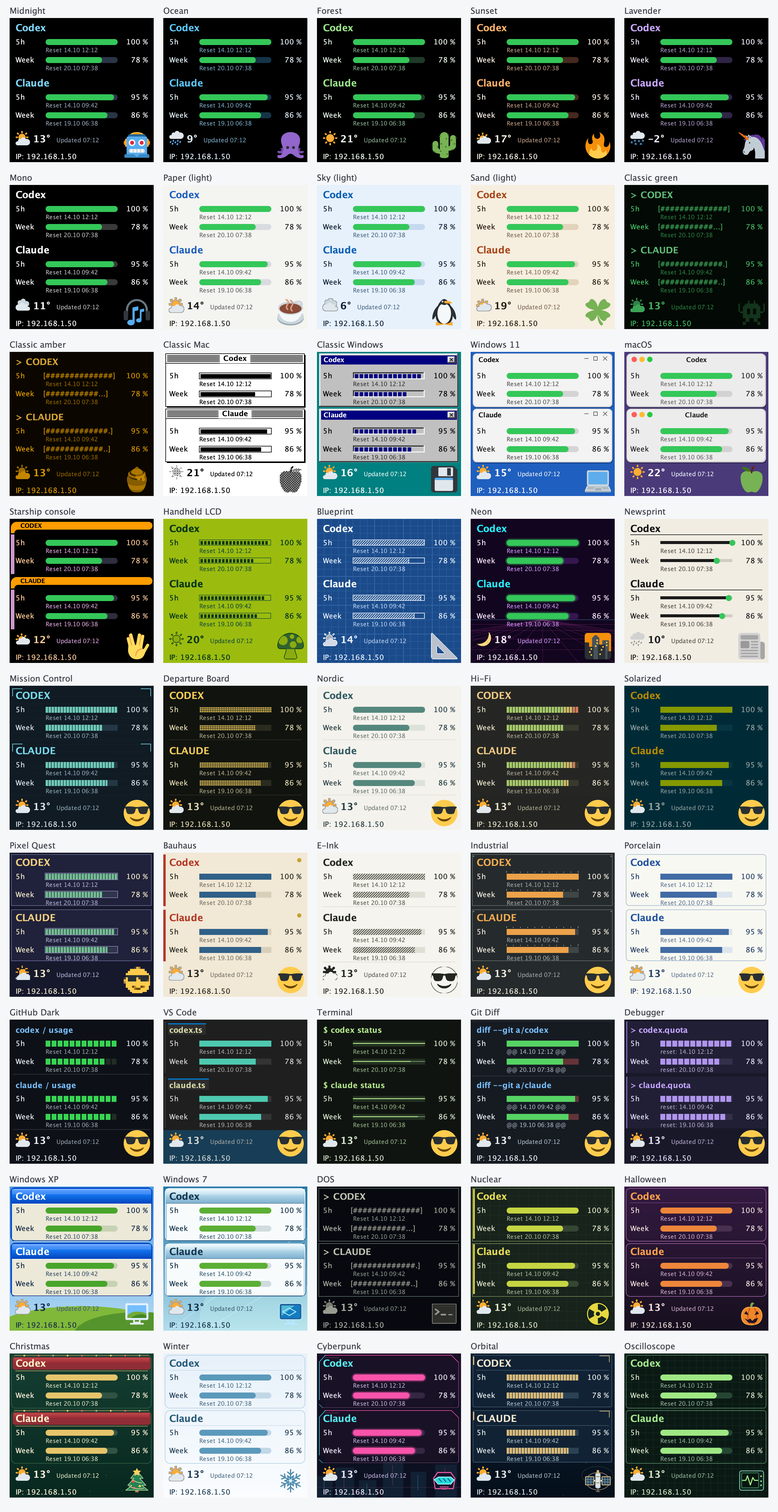
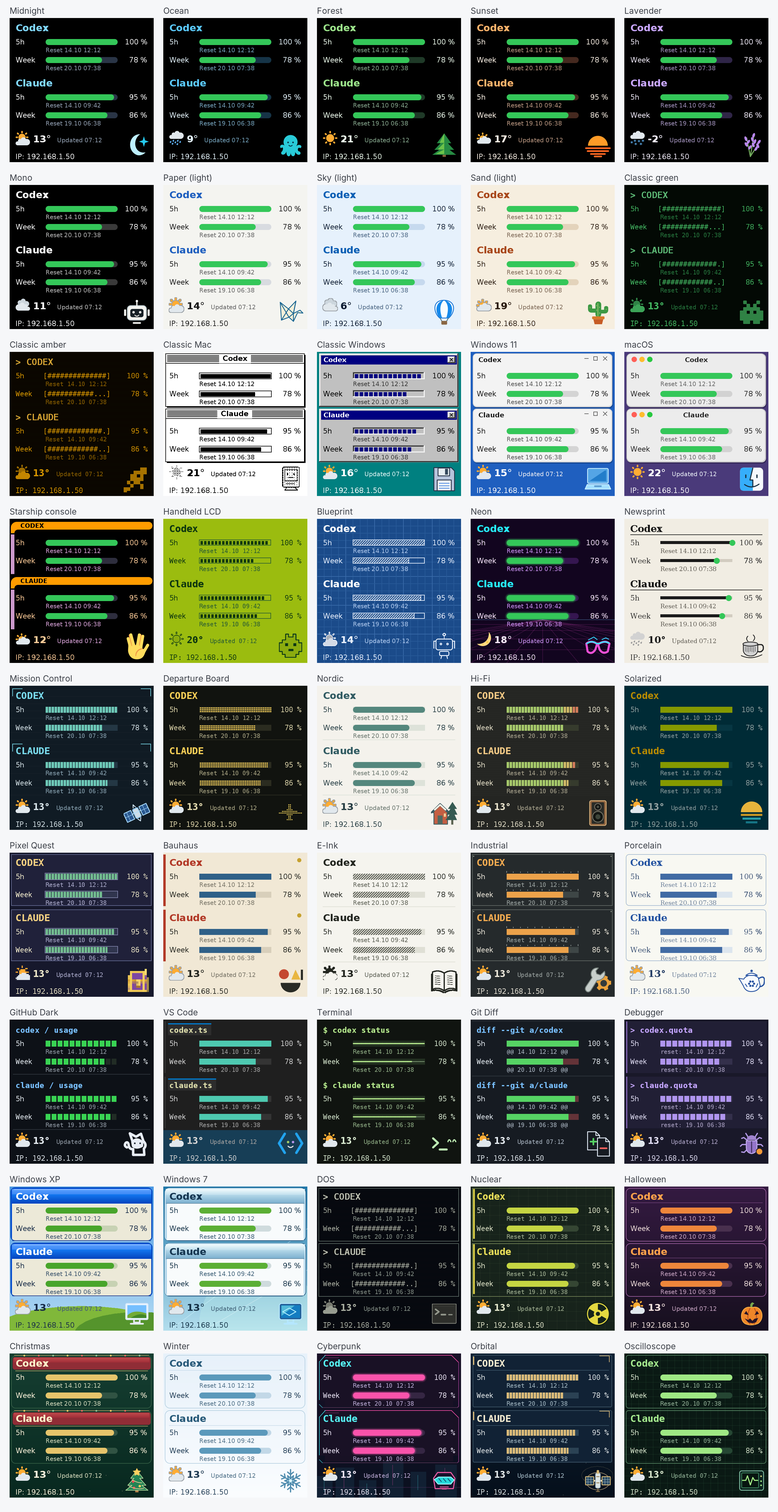
Release 0.5.0 (#77)
* Release 0.5.0: changelog, manual, READMEs, themes picture with default icons

* Docs: firmware 0.5.0 wording, metrics note in client README, status page reload text

diff --git a/vibedock-server/src/test/java/org/frifra/vibedock/server/ThemesImageTest.java b/vibedock-server/src/test/java/org/frifra/vibedock/server/ThemesImageTest.java
@@ -11,40 +11,40 @@ import java.util.*;
 import java.util.List;
 
 /**
- * Draws every colour scheme with example data, with the server's renderer at twice the size (sharp on high-resolution
+ * Draws every colour scheme with example data and its default theme icon, with the server's renderer at twice the size (sharp on high-resolution
  * screens), into target/themes.png. With the Twemoji graphics versioned in the repository; VIBEDOCK_TWEMOJI names
  * another SVG folder. The picture of the README and the manual (docs/manual/themes.png; outside images/, which
  * scripts/docs.sh makes again) is made with
  * {@code VIBEDOCK_THEMES_IMAGE=../docs/manual/themes.png mvn test -Dtest=ThemesImageTest} (from vibedock-server).
  */
 class ThemesImageTest {
-    record Example(Scheme scheme,String mood,String weather,String temperature) {}
+    record Example(Scheme scheme,String weather,String temperature) {}
     static final List<Example> EXAMPLES=List.of(
-            new Example(Scheme.MIDNIGHT,"🤖","⛅","13°"),new Example(Scheme.OCEAN,"🐙","🌧","9°"),new Example(Scheme.FOREST,"🌵","☀","21°"),
-            new Example(Scheme.SUNSET,"🔥","🌥","17°"),new Example(Scheme.LAVENDER,"🦄","🌨","-2°"),new Example(Scheme.MONO,"🎧","☁","11°"),
-            new Example(Scheme.PAPER,"☕","⛅","14°"),new Example(Scheme.SKY,"🐧","☁","6°"),new Example(Scheme.SAND,"🍀","🌥","19°"),
-            new Example(Scheme.TERMINAL_GREEN,"👾","⛅","13°"),new Example(Scheme.TERMINAL_AMBER,"🍯","⛅","13°"),new Example(Scheme.CLASSIC_MAC,"🍎","☀","21°"),
-            new Example(Scheme.CLASSIC_WINDOWS,"💾","⛅","16°"),new Example(Scheme.WINDOWS_11,"💻","⛅","15°"),new Example(Scheme.MACOS,"🍏","☀","22°"),
-            new Example(Scheme.STARSHIP,"🖖","🌥","12°"),new Example(Scheme.HANDHELD,"🍄","☀","20°"),new Example(Scheme.BLUEPRINT,"📐","⛅","14°"),
-            new Example(Scheme.NEON,"🌆","🌙","18°"),new Example(Scheme.NEWSPRINT,"📰","🌧","10°"),
-            new Example(Scheme.MISSION_CONTROL,"😎","⛅","13°"),new Example(Scheme.DEPARTURE_BOARD,"😎","⛅","13°"),
-            new Example(Scheme.NORDIC,"😎","⛅","13°"),new Example(Scheme.HI_FI,"😎","⛅","13°"),
-            new Example(Scheme.SOLARIZED,"😎","⛅","13°"),new Example(Scheme.PIXEL_QUEST,"😎","⛅","13°"),
-            new Example(Scheme.BAUHAUS,"😎","⛅","13°"),new Example(Scheme.E_INK,"😎","⛅","13°"),
-            new Example(Scheme.INDUSTRIAL,"😎","⛅","13°"),new Example(Scheme.PORCELAIN,"😎","⛅","13°"),
-            new Example(Scheme.GITHUB_DARK,"😎","⛅","13°"),new Example(Scheme.VS_CODE,"😎","⛅","13°"),
-            new Example(Scheme.TERMINAL,"😎","⛅","13°"),new Example(Scheme.GIT_DIFF,"😎","⛅","13°"),
-            new Example(Scheme.DEBUGGER,"😎","⛅","13°"),
-            new Example(Scheme.WINDOWS_XP,null,"⛅","13°"),
-            new Example(Scheme.WINDOWS_7,null,"⛅","13°"),
-            new Example(Scheme.DOS,null,"⛅","13°"),
-            new Example(Scheme.NUCLEAR,null,"⛅","13°"),
-            new Example(Scheme.HALLOWEEN,null,"⛅","13°"),
-            new Example(Scheme.CHRISTMAS,null,"⛅","13°"),
-            new Example(Scheme.WINTER,null,"⛅","13°"),
-            new Example(Scheme.CYBERPUNK,null,"⛅","13°"),
-            new Example(Scheme.ORBITAL,null,"⛅","13°"),
-            new Example(Scheme.OSCILLOSCOPE,null,"⛅","13°"));
+            new Example(Scheme.MIDNIGHT,"⛅","13°"),new Example(Scheme.OCEAN,"🌧","9°"),new Example(Scheme.FOREST,"☀","21°"),
+            new Example(Scheme.SUNSET,"🌥","17°"),new Example(Scheme.LAVENDER,"🌨","-2°"),new Example(Scheme.MONO,"☁","11°"),
+            new Example(Scheme.PAPER,"⛅","14°"),new Example(Scheme.SKY,"☁","6°"),new Example(Scheme.SAND,"🌥","19°"),
+            new Example(Scheme.TERMINAL_GREEN,"⛅","13°"),new Example(Scheme.TERMINAL_AMBER,"⛅","13°"),new Example(Scheme.CLASSIC_MAC,"☀","21°"),
+            new Example(Scheme.CLASSIC_WINDOWS,"⛅","16°"),new Example(Scheme.WINDOWS_11,"⛅","15°"),new Example(Scheme.MACOS,"☀","22°"),
+            new Example(Scheme.STARSHIP,"🌥","12°"),new Example(Scheme.HANDHELD,"☀","20°"),new Example(Scheme.BLUEPRINT,"⛅","14°"),
+            new Example(Scheme.NEON,"🌙","18°"),new Example(Scheme.NEWSPRINT,"🌧","10°"),
+            new Example(Scheme.MISSION_CONTROL,"⛅","13°"),new Example(Scheme.DEPARTURE_BOARD,"⛅","13°"),
+            new Example(Scheme.NORDIC,"⛅","13°"),new Example(Scheme.HI_FI,"⛅","13°"),
+            new Example(Scheme.SOLARIZED,"⛅","13°"),new Example(Scheme.PIXEL_QUEST,"⛅","13°"),
+            new Example(Scheme.BAUHAUS,"⛅","13°"),new Example(Scheme.E_INK,"⛅","13°"),
+            new Example(Scheme.INDUSTRIAL,"⛅","13°"),new Example(Scheme.PORCELAIN,"⛅","13°"),
+            new Example(Scheme.GITHUB_DARK,"⛅","13°"),new Example(Scheme.VS_CODE,"⛅","13°"),
+            new Example(Scheme.TERMINAL,"⛅","13°"),new Example(Scheme.GIT_DIFF,"⛅","13°"),
+            new Example(Scheme.DEBUGGER,"⛅","13°"),
+            new Example(Scheme.WINDOWS_XP,"⛅","13°"),
+            new Example(Scheme.WINDOWS_7,"⛅","13°"),
+            new Example(Scheme.DOS,"⛅","13°"),
+            new Example(Scheme.NUCLEAR,"⛅","13°"),
+            new Example(Scheme.HALLOWEEN,"⛅","13°"),
+            new Example(Scheme.CHRISTMAS,"⛅","13°"),
+            new Example(Scheme.WINTER,"⛅","13°"),
+            new Example(Scheme.CYBERPUNK,"⛅","13°"),
+            new Example(Scheme.ORBITAL,"⛅","13°"),
+            new Example(Scheme.OSCILLOSCOPE,"⛅","13°"));
 
     @Test void drawsEveryScheme() throws Exception {
         var emoji=Twemoji.locate(System.getenv("VIBEDOCK_TWEMOJI"));
@@ -61,7 +61,7 @@ class ThemesImageTest {
         g.setFont(new Font(Font.SANS_SERIF,Font.PLAIN,14*k));
         for(int i=0;i<EXAMPLES.size();i++){
             var e=EXAMPLES.get(i);int x=gap+(i%columns)*cell,y=gap/2+(i/columns)*(label+240*k+gap);
-            var look=new StatusImage.Look(e.mood()==null?ThemeIcons.image(new Design.Icon("theme-default",null,null),e.scheme(),Twemoji.SIZE*k).orElseThrow():required(twemoji,e.mood(),Twemoji.SIZE*k),e.scheme(),required(twemoji,e.weather(),24*k),e.temperature(),Layout.DEFAULT);
+            var look=new StatusImage.Look(ThemeIcons.image(new Design.Icon("theme-default",null,null),e.scheme(),Twemoji.SIZE*k).orElseThrow(),e.scheme(),required(twemoji,e.weather(),24*k),e.temperature(),Layout.DEFAULT);
             var image=ImageIO.read(new ByteArrayInputStream(renderer.render(snapshot,"192.168.1.50",look,DisplayType.M1,k).png()));
             g.setColor(new Color(0x3c4048));g.drawString(e.scheme().label,x,y+15*k);
             g.drawImage(image,x,y+label,null);

diff --git a/vibedock-server/README.md b/vibedock-server/README.md
@@ -237,10 +237,10 @@ Devices are invited by the server and then pull their image; see [CLIENT-PROTOCO
 
 1. Connect the device to Wi-Fi through its local setup portal. An unpaired device shows its IP address (bottom line) and a 6-digit pairing code.
 2. In administration under **Devices**, click `Pair device`, enter IP and code and confirm. The server sends its addresses, a new device key and the poll interval to the device. **HTTP pairing is unencrypted** and remains enabled for trusted home networks; the form displays a warning. A network attacker can capture the device key or replace TLS/OTA trust keys. Pairing over USB is the alternative without reinstalling firmware: **USB** in the same dialog (remembered per browser) or **Devices → Firmware → Only pair**, one form in two places (fragment `usbPairing`, `usb-pairing.js`).
-3. The device pulls `GET /api/v1/clients/{identifier}/image` with its key. Unchanged images are answered with **304**. Every answer says when the picture can change next (`X-VibeDock-Next-Pull`: after the next poll of the sources the display shows; *pending* while one is being asked), and current firmware pulls then, at most every 10 minutes when the server can ask it to pull, every 2 minutes otherwise (`CLIENT-PROTOCOL.md` 3h). All sources are polled together on the full minute, so several providers do not make a display pull more often. The *fallback poll interval* under *Settings* (default 30 s) applies to older firmware, after failed pulls and as grace before *Updates missing*. After a design is saved, the server asks the affected devices to pull right away (`POST /pull` on the device); after a restart it asks devices with an established callback address, once the first usage readings are in. Device-reported IPs may change the callback destination only inside the network fixed at HTTP pairing, using the entered IP and the device-reported subnet mask. Older devices without a mask use the original IPv4 pairing IP's `/24` (first three octets); IPv6 stays at the original address. Clients on 0.1.0 remain supported without the mask header. If no actual mask has been saved, the first authenticated pull from recognized firmware newer than 0.1.0 with a valid mask may replace the `/24` fallback once, anchored to the original IP. Once learned, later reports and firmware updates cannot widen or move that network. Invalid masks keep the exact original IP and show a warning. USB-paired devices enable immediate callbacks after their first authenticated image pull: the reported device IP (or socket peer if the header is absent/invalid) fixes the origin, and subsequent IPv4 address changes must stay in its `/24` until the actual mask is learned once as above. This survives server restarts; existing USB registrations without an origin learn it on their next authenticated pull. Web displays never receive callbacks.
+3. The device pulls `GET /api/v1/clients/{identifier}/image` with its key. Unchanged images are answered with **304**. Every answer says when the picture can change next (`X-VibeDock-Next-Pull`: after the next poll of the sources the display shows; *pending* while one is being asked), and current firmware pulls then, at most every 10 minutes when the server can ask it to pull, every 2 minutes otherwise (`CLIENT-PROTOCOL.md` 3h). All sources are polled together on the full minute, so several providers do not make a display pull more often. With several displays the announced time gets up to 10 s on top, a fixed step of its own for every display and round, so they do not pull in the same second (never beyond the limit above). The *fallback poll interval* under *Settings* (default 30 s) applies to older firmware, after failed pulls and as grace before *Updates missing*. After a design is saved, the server asks the affected devices to pull right away (`POST /pull` on the device); after a restart it asks devices with an established callback address, once the first usage readings are in. Device-reported IPs may change the callback destination only inside the network fixed at HTTP pairing, using the entered IP and the device-reported subnet mask. Older devices without a mask use the original IPv4 pairing IP's `/24` (first three octets); IPv6 stays at the original address. Clients on 0.1.0 remain supported without the mask header. If no actual mask has been saved, the first authenticated pull from recognized firmware newer than 0.1.0 with a valid mask may replace the `/24` fallback once, anchored to the original IP. Once learned, later reports and firmware updates cannot widen or move that network. Invalid masks keep the exact original IP and show a warning. USB-paired devices enable immediate callbacks after their first authenticated image pull: the reported device IP (or socket peer if the header is absent/invalid) fixes the origin, and subsequent IPv4 address changes must stay in its `/24` until the actual mask is learned once as above. This survives server restarts; existing USB registrations without an origin learn it on their next authenticated pull. Web displays never receive callbacks.
 4. Under **Settings** set the **internal** address (LAN, default: the host used to open the administration UI with port 10002) and an optional **external** address, e.g. a public host name behind a reverse proxy. `INTERNAL_URL` and `EXTERNAL_URL` in `.env` provide defaults. Devices try the address that answered last, then the other one; after a restart they try the first one (internal) once more.
 5. **Boards:** besides the VibeTV M1 (ESP8266), the firmware is built for ESP32 boards with a display: Cheap Yellow Display (ESP32-2432S028R), LilyGO T-Display, LilyGO T-Display-S3, Waveshare ESP32-S3-LCD-1.69, Waveshare ESP32-S3-Touch-LCD-1.47, Waveshare ESP32-S3-Touch-LCD-1.54, Waveshare ESP32-C6-Touch-LCD-1.69 and an ESP32-C3 with a 240×240 ST7789 (table in [CLIENT-PROTOCOL.md](CLIENT-PROTOCOL.md#boards)). Every device has a board; it decides which build is installed over USB or Wi-Fi and sets the device's default display type. Current firmware reports its board with every pull and over USB; for older firmware choose it when pairing. The card shows it next to the identifier. Tested on hardware are the Waveshare ESP32-S3-Touch-LCD-1.47, ESP32-S3-Touch-LCD-1.54 and ESP32-C6-Touch-LCD-1.69; the other ESP32 builds are prepared and untested on hardware (see [VALIDATION.md](VALIDATION.md)).
-6. **Firmware:** the Docker image contains the display firmware for every board, built from the same commit (version from the Git tag, like the server). *Devices → Firmware* offers it per board (chosen in the firmware card) as a download with SHA-256 and esptool commands, and installs it from the browser over USB (Web Serial, Chrome or Edge, administration opened over HTTPS or on `localhost`): connect (the page checks the chip and switches to the matching board when only one board has it), download a full flash backup, then write the board's image at `0x0` (on ESP32 chips bootloader, partition table and app in one); Wi-Fi, pairing and colour calibration stay. After installing, the page offers to pair the display right away: it asks the display over USB for its identifier and the Wi-Fi networks in reach, pairs it on the server and sends Wi-Fi and pairing over the cable; the display restarts and shows its image, without setup Wi-Fi and pairing code (the Wi-Fi password goes from the browser to the display only). *Only pair* does the same for a display that already runs this firmware; *Devices → Pair device → USB* shows the same form. *Restart display* restarts it over the cable like its reset button (any firmware). Opened on `localhost`, the page needs the internal address under *Settings*, since it cannot know the server's LAN address. Each device reports its firmware with every pull; the device list, the overview and the firmware page offer *Update to …* for devices with another version and show the progress live. Without the build context `git` (plain `docker build`), or with `java -jar`, there is no firmware to offer. **Updates over Wi-Fi:** a device with current firmware gets *Update to <version>* (*Update all* in the device list for several); it downloads its board's firmware signed with this server's key (created in the data directory), checks the signature, installs it and restarts. A device the server cannot reach directly picks the update up with its next image pull. Older firmware shows *Update … via USB* until it was installed once over USB and paired. **Own firmware build:** the firmware page takes a build of your own per board (`firmware.bin`, on ESP32 boards also `flash.bin` from `.pio/build/<board>/`); the server reads version and board from the file (`VIBEDOCK-FIRMWARE <version> <board>`, stored in `firmware/<board>/` of the data directory), refuses files for another board, and offers the build over USB and, signed, over Wi-Fi until *Use the built-in firmware*. Updates use the version of each board's firmware. *Display log* reads the display's events over USB; [Troubleshooting a display](../docs/manual/MANUAL.md#troubleshooting-a-display) explains them. **Diagnosis:** firmware 0.2.0 sends `X-VibeDock-Diag` with every request (boot id, run time, memory, Wi-Fi, how the start came about and the last phase before a reset, see `CLIENT-PROTOCOL.md` 3f); the server keeps the last 20 starts per display (`device-logs/<id>/starts.json`, one per boot id) and shows them with the freshness of the newest log on *Troubleshooting*. *Request current logs* asks all displays at once; the support file adds a diagnosis overview (observed, suspected, missing). A browser that closes a page (also the event stream) is no storage error: it is logged at debug level only.
+6. **Firmware:** the Docker image contains the display firmware for every board, built from the same commit (version from the Git tag, like the server). *Devices → Firmware* offers it per board (chosen in the firmware card) as a download with SHA-256 and esptool commands, and installs it from the browser over USB (Web Serial, Chrome or Edge, administration opened over HTTPS or on `localhost`): connect (the page checks the chip and switches to the matching board when only one board has it), download a full flash backup, then write the board's image at `0x0` (on ESP32 chips bootloader, partition table and app in one); Wi-Fi, pairing and colour calibration stay. After installing, the page offers to pair the display right away: it asks the display over USB for its identifier and the Wi-Fi networks in reach, pairs it on the server and sends Wi-Fi and pairing over the cable; the display restarts and shows its image, without setup Wi-Fi and pairing code (the Wi-Fi password goes from the browser to the display only). *Only pair* does the same for a display that already runs this firmware; *Devices → Pair device → USB* shows the same form. *Restart display* restarts it over the cable like its reset button (any firmware). Opened on `localhost`, the page needs the internal address under *Settings*, since it cannot know the server's LAN address. Each device reports its firmware with every pull; the device list, the overview and the firmware page offer *Update to …* for devices with another version and show the progress live. Without the build context `git` (plain `docker build`), or with `java -jar`, there is no firmware to offer. **Updates over Wi-Fi:** a device with current firmware gets *Update to <version>* (*Update all* in the device list for several); it downloads its board's firmware signed with this server's key (created in the data directory), checks the signature, installs it and restarts. A device the server cannot reach directly picks the update up with its next image pull. Older firmware shows *Update … via USB* until it was installed once over USB and paired. **Own firmware build:** the firmware page takes a build of your own per board (`firmware.bin`, on ESP32 boards also `flash.bin` from `.pio/build/<board>/`); the server reads version and board from the file (`VIBEDOCK-FIRMWARE <version> <board>`, stored in `firmware/<board>/` of the data directory), refuses files for another board, and offers the build over USB and, signed, over Wi-Fi until *Use the built-in firmware*. Updates use the version of each board's firmware. *Display log* reads the display's events over USB; [Troubleshooting a display](../docs/manual/MANUAL.md#troubleshooting-a-display) explains them. **Diagnosis:** firmware 0.2.0 sends `X-VibeDock-Diag` with every request (boot id, run time, memory, Wi-Fi, how the start came about and the last phase before a reset, see `CLIENT-PROTOCOL.md` 3f); the server keeps the last 20 starts per display (`device-logs/<id>/starts.json`, one per boot id) and, from firmware 0.5.0, the measured values (`X-VibeDock-Metrics`, one sample per 5 minutes, 30 days, `device-logs/<id>/metrics.jsonl`; CSV export under *Troubleshooting*) and shows them with the freshness of the newest log on *Troubleshooting*. *Request current logs* asks all displays at once; the support file adds a diagnosis overview (observed, suspected, missing). A browser that closes a page (also the event stream) is no storage error: it is logged at debug level only.
 7. **Device actions:** the reload button next to the status and the bin next to *Edit design*. The pen next to a device or data source name renames it in place. Device and data source cards are reordered by dragging them like the bands in the editor (the grip ⠿ left of the name also takes the arrow keys); the order is saved at once and used on the overview and in the editor as well. `Force refresh` makes the device redraw its whole screen on the next pull, even if the image did not change; a trusted, reachable callback endpoint can trigger that pull immediately. `Remove device` deletes a device; its next pull gets **401** and it returns to pairing mode.
 8. **Web displays:** *Add web display* on the device page creates a display for a browser, tablet or another program. Choose its name, display type and reload interval (default 30 s). *Fit the browser* (`fit`, web displays only) follows the window's shape: short side 360 layout pixels, with larger windows zoomed. The page requests `image.png?w=&h=&r=` using its safe-area size and pixel ratio; the server draws at that resolution (scale rounded up to quarter steps, at most 16 megapixels, full colour). Without parameters, the PNG has the type's pixels.
    The card offers two links: the **page** `/web/<secret>` shows the image full screen and reloads at the chosen interval; the **image** `/web/<secret>/image.png` is the plain PNG. The page also checks `GET /web/<secret>/state` every 3 s and loads a changed image. It swaps only after a successful load and keeps the last image with an *offline* note if the server cannot be reached. Its CSS background and browser theme colour initially use the selected theme's background, then follow the top edge of every successfully loaded image, including timed reloads and theme/photo changes. The iPhone home-screen status bar is translucent so the page background shows through; failed loads keep the last colour.

diff --git a/docs/manual/MANUAL.md b/docs/manual/MANUAL.md
@@ -220,6 +220,7 @@ Everything the server keeps lives in the data directory, by default `vibedock-se
 | `ota-signing.key` | Key that signs firmware updates; displays accept updates only signed with it |
 | `firmware/` | Own firmware builds uploaded under **Devices → Firmware**, one folder per board (only when used) |
 | `logs/` | `vibedock.log` and the daily request logs (kept 14 days) |
+| `device-logs/` | Per display the last starts and, from firmware 0.5.0, the measured values (`metrics.jsonl`, 30 days) |
 
 The directory contains **encrypted credentials and the private `.installation-id` needed to read them**: keep it private, never commit or publish it. Settings and sign-in caches remain readable JSON; only credential fields such as tokens, refresh tokens and API keys are encrypted. The portal password remains a BCrypt hash, without additional encryption. Include hidden files in a backup; existing plaintext credentials and the earlier whole-file encryption format are migrated automatically on startup. Password-protected data-source exports remain independent of that installation identity. It survives
 restarts, rebuilds and updates of the image.
@@ -618,6 +619,9 @@ and do not appear on the firmware page.
 
 The display editor sets what a display shows. **Design for** chooses the default design or a device. The preview
 on the right is rendered by the server exactly as the display will show it. Every change is saved right away.
+Under the preview, **Simulate battery** simulates a display that runs on its battery: tick it and choose a level
+(unknown, 100, 60, 20 or 10 %) to see the icon in the chosen theme (see [Battery power saving](#battery-power-saving-experimental)).
+It changes only the preview; nothing is saved.
 
 <img src="images/30-display-default.png" width="100%" alt="Default design">
 
@@ -919,6 +923,12 @@ can change next, after the next poll of the sources it shows (all sources are po
 several providers do not make it pull more often). The interval applies to older firmware, after a failed pull and
 before the first answer, and as grace before *Updates missing*. Web display links use these addresses too.
 
+With several displays the server adds up to 10 seconds to the announced time, so that they do not all pull in the same
+second: every display gets a fixed step of its own (with six displays 0, 2, 4, 6, 8 and 10 seconds)
+and keeps it for the round; the order is drawn anew with every round. A single display, a running slideshow, a
+`pending` answer and times under 20 seconds get nothing on top, and the time never passes the display's limit of 10 minutes
+(2 minutes for a display the server cannot reach directly).
+
 ## Read-only API access
 
 <img src="images/50-settings-api.png" width="80%" alt="Read-only API access">
@@ -1187,6 +1197,7 @@ Reasons under *Server unreachable*:
 | `TLS 1.3 … out of memory …` | The display ran out of memory during the handshake. Send the log line. |
 | `TLS 1.3 … alert from the server …`, `server does not speak TLS 1.3` | The server refused the connection; the alert names why. A server with TLS 1.2 only works on the M1 over its TLS 1.2 fallback. |
 | `read Timeout (-11) after TLS; sent …, got … B …` | The encrypted connection worked, but the answer stalled (`got` bytes arrived). Mostly a lossy network; the display retries at once. |
+| `read Timeout, TCP … works, no HTTP answer` | Over plain http the server did not answer within 3 seconds (firmware 0.5.0; 5 seconds before); the display retries. Now and then is harmless; often: see [Slow pictures and aborted transfers](#slow-pictures-and-aborted-transfers-wi-fi). |
 | `no root certificate for https from pairing` | The display was paired without an https root. Pair it again. |
 | `clock not set yet (NTP), needed for https` | The display has no time yet; it needs `pool.ntp.org`. It goes away after a few seconds. |
 
@@ -1215,6 +1226,13 @@ Work from the display outwards: what the display shows, what its log says, then 
 pairing code means it is not paired, *Server unreachable* means Wi-Fi works but no server address answers. A display
 that shows an image and the green status under **Devices** is fine; a stale image disappears after three missed
 polls.
+
+**The status page.** Every display answers on its IP address (`http://<device-ip>/`) with a status page in the local network.
+It shows the state, the picture the display shows and, in the *Memory* row, the free memory and its largest block in one
+piece. The picture is loaded from the server, not from the display: the page asks the server for it with a token that the
+display got with its last pull, tries the second server address when the first does not load and offers **Retry**. The
+page shows no picture before the display's first pull after an update, or when the server is older than 0.5.0. The VibeTV
+Classic builds the page piece by piece, so it arrives complete even when little memory is left.
 
 ## Touch displays
 
@@ -1272,7 +1290,7 @@ If the display misses updates on battery, switch it off again.
 
 **Battery icon.** While one of these displays runs on its battery, its picture shows a small battery at the top right
 of the first usage band (beside a status such as *Rate limited*, in window themes in the title bar), whether power
-saving is on or not. The 1.54 and the C6 1.69 fill it to their measured level in steps of 20 %, red below 20 %; the others only know
+saving is on or not. It has the colour of the title text of the theme, so it reads like part of the heading or the title bar. The 1.54 and the C6 1.69 fill it to their measured level in steps of 20 %, red below 20 %; the others only know
 that they run on battery and show three dots in it (level unknown), an empty frame means 0 %. The device card's preview shows it as well. On USB it disappears. The
 server draws it into the image, so the display only sends one more header with its pulls; the image changes only when
 the level steps or the power source changes. The LilyGO T-Display has a battery connection too,
@@ -1305,6 +1323,20 @@ change against the log before in brackets. When a log is saved, the server also 
 display from the same time: image transfers (delta or full, bytes, next pull), starts, saved logs and updates. The
 switch **Server lines** on a log shows them between the display's lines, in the accent colour, with all times in
 server time; while it is on, **Download** includes them too. Logs without such entries have no switch.
+
+**Metrics.** The **Metrics** button on a display's log page opens what the display measured and sent with its pulls
+(firmware 0.5.0 and newer). The server keeps one sample per display every 5 minutes and with every start, for 30 days,
+and in a sample the lowest free memory of all pulls since the sample before, so a dip between two samples is not lost.
+Choose the period (6 hours, 1, 3, 7 or 30 days): the curves show the free memory, the lowest free memory and the largest
+block in one piece (a dashed line marks a restart), the Wi-Fi signal and, while the display runs on its battery, the
+battery voltage. Below them a table lists the newest samples with the free memory, the lowest and largest block, the
+memory after a TLS handshake and its stack, the time of the last picture, signal, Wi-Fi drops, battery voltage,
+brightness and how long the display was active and dimmed. A value that was not measured stays empty. **Export CSV**
+(or `/admin/metrics.csv`) hands the samples to a spreadsheet: comma as separator, dot as decimal mark, the unit in the
+column name, local and UTC time, firmware and the reason of the start, for all displays or one with `device`, and for a
+period with `from` and `to` (`yyyy-MM-dd` or an instant); `raw=true` adds the header as the display sent it. Text cells that start like a formula are
+saved with a leading apostrophe. The key figures of a log use the samples of its period as well, and the support file
+carries them as `samples`.
 
 The table also shows how fresh the **newest log** is: how long ago the server received it (server time; its lines can
 be much older), over USB or the network, the firmware it came from and, with firmware 0.2.0, the start it was sent in

diff --git a/vibedock-client/README.md b/vibedock-client/README.md
@@ -157,8 +157,13 @@ every poll interval, so with sources polled every minute it pulls once a minute 
 between; with longer intervals it pulls less often. While a source is still being asked (`state=pending`) it comes back
 when the poll should be done, at most every 2, 5, 10, then 30 s. Upper limit: 10 minutes for displays the server can
 ask for an immediate pull, 2 minutes for the others. Failed pulls, immediate pull requests and older servers use the
-poll interval as before. The status page shows the next pull. See
-[the protocol](../vibedock-server/CLIENT-PROTOCOL.md#3h-next-pull-server--device).
+poll interval as before. The status page shows the next pull. With several displays the server adds up to 10 s to the
+announced time, a fixed step of its own for every display and round, so they do not pull in the same second (not for
+`pending`, slideshows, a single display or times under 20 s). With every pull the display also sends what it measures
+(memory, Wi-Fi signal, picture time, battery, in the short header `X-VibeDock-Metrics`); the server shows it under
+*Logs → Metrics*. See the protocol,
+[3h](../vibedock-server/CLIENT-PROTOCOL.md#3h-next-pull-server--device) and
+[3i](../vibedock-server/CLIENT-PROTOCOL.md#3i-metrics-device--server).
 
 ## Image transfer
 
@@ -389,7 +394,7 @@ several are connected. Enumeration is passive; only the selected port is queried
 | Image | RGB565, most significant byte first, 16–480 px per side as named in the format header (240 × 240: 115,200 bytes), scaled to the screen. Delta images (`rgb565-delta-be-WxH`) carry only changed row spans and are checked by length, payload hash and a hash over all rows. Invalid transfers are rejected and the next pull gets the complete image; a transfer cut off on the way resumes with the rest. |
 | Memory and redraw | One input row (at most 960 bytes) plus one row of 16-bit pixels. ESP32 boards keep a copy of the picture when PSRAM or enough heap is free (for turns and colour correction); the M1 does not. Row hashes avoid redrawing unchanged rows and are the basis for delta images. |
 | IP footer | Current server images carry the IP reported by the device (`X-VibeDock-Footer: server`). On its own status screens, the device draws the footer itself. |
-| Polling | Every answer announces the next pull (`X-VibeDock-Next-Pull`: 2 s to 10 minutes, 2 minutes for displays the server cannot reach directly). The fallback poll interval (default 30 seconds, clamped to 10–3,600 seconds) applies to older servers and after failed pulls. Image reads use an eight-second abort limit (15 seconds over https); the browser BMP proxy has a separate transfer limit. |
+| Polling | Every answer announces the next pull (`X-VibeDock-Next-Pull`: 2 s to 10 minutes, 2 minutes for displays the server cannot reach directly). The fallback poll interval (default 30 seconds, clamped to 10–3,600 seconds) applies to older servers and after failed pulls. Image reads use an eight-second abort limit (15 seconds over https). The wait for the answer to a pull is 3 seconds over plain http, 5 seconds over https and 15 seconds after a full certificate check; then the display retries. |
 | Version | Compiled in from the Git tag by `firmware/version.py`, like the server: `0.1.0` on the tag `0.1.0` (or `v0.1.0`), `0.1.0-3-g<commit>` after it, `-dirty` with uncommitted changes. |
 | Persistence | `/standalone.json` in LittleFS stores Wi-Fi, identifier, pairing credentials, server addresses and colour settings. Treat the file and device backups as private. The setup-network password is never stored. |
 | HTTPS | Pairing supplies a trusted root and certificate fingerprint. Normal requests check the fingerprint; after certificate renewal, root/hostname/validity verification allows learning a new fingerprint. Certificate checks require time from NTP (`pool.ntp.org`). Verification fails closed. The VibeTV M1 speaks TLS 1.3 (Mbed TLS; the full check once, then the pinned certificate) and TLS 1.2 only for servers that refuse 1.3; the ESP32 boards TLS 1.2. See [TLS.md](TLS.md). |
@@ -406,7 +411,11 @@ Wi-Fi setup, pairing, image pulls, display output and colour calibration have be
 The device's setup and status web pages inherit the server administration's Light/Dark choice through the next
 authenticated image response (including HTTP 304). Reachable devices also receive an appearance-only push
 over the existing `/pull` callback, independently of image updates. Open pages apply changes within five seconds and reload their preview only after a new
-complete image; hidden tabs pause polling. Preview updates stream a full image only while the page is open.
+complete image; hidden tabs pause polling. The picture on the status page comes from the server, not from the display:
+every pull answer carries `X-VibeDock-Preview-Token`, the page loads `/api/v1/clients/<id>/preview.png?t=<token>`, tries
+the second server address when the first does not load and offers *Retry* (see
+[the protocol](../vibedock-server/CLIENT-PROTOCOL.md#3j-picture-on-the-displays-page-server--device--browser)). The page
+is built in slices of 256 bytes, and its *Memory* row shows the free memory and the largest free block.
 The last choice persists across restarts; an unpaired device defaults to dark. The image colour scheme is separate.
 
 ### Hardware image palettes

diff --git a/CHANGELOG.md b/CHANGELOG.md
@@ -2,6 +2,32 @@
 
 The release workflow publishes the section of the tagged version (`## 0.1.0` for the tag `v0.1.0` or `0.1.0`) above the list of commits that GitHub generates.
 
+## 0.5.0
+
+The displays now report what they measure, and the administration shows it as curves and a table. Several displays no
+longer pull in the same second, the status page of a display loads its picture straight from the server, and the
+VibeTV Classic shows its status page completely. Update the server image first; everything below except the measured
+values, the status page picture, the complete status page and the faster retry works with the firmware displays
+already run. Those four need the new firmware: update the displays over Wi-Fi from the administration. The status
+page of a display shows its picture after its first pull following the update.
+
+### Administration
+
+- **Measured values of the displays:** displays send memory, Wi-Fi signal, picture time, battery voltage and how long the backlight was dimmed with every pull in one short header (`X-VibeDock-Metrics`, `CLIENT-PROTOCOL.md` 3i). The server keeps one sample every 5 minutes for 30 days. *Logs → Metrics* shows memory, Wi-Fi and battery curves and a table, the key figures of a log include the samples in its time, the support file has them as `samples`, and `/admin/metrics.csv` exports them as CSV (filter by display and period). Needs firmware 0.5.0.
+- **Battery simulation in the design preview:** a checkbox with a level (unknown, 100, 60, 20, 10 %) shows the battery icon in the preview of the design page, to see how it looks in a theme. Nothing is saved.
+
+### Displays and images
+
+- **Displays no longer pull in the same second:** with several displays the announced time to the next pull gets up to 10 s on top, in fixed steps with a random order that is drawn anew every round (`CLIENT-PROTOCOL.md` 3h). Not for `pending` answers, slideshows, single displays or intervals under 20 s.
+- **Picture on the display's status page straight from the server:** the display no longer fetches and relays the picture for its page (`/image.bmp` is gone, which saves memory and time on the VibeTV Classic). The server announces a token with every pull, the page loads `/api/v1/clients/<id>/preview.png?t=<token>` from the server, tries the second server address when the first does not load, and offers *Retry* (`CLIENT-PROTOCOL.md` 3j). The picture appears after the display's first pull following the update.
+- **Device status page complete on the VibeTV Classic:** the page is sent in slices of 256 bytes and built piece by piece in one buffer. When the Wi-Fi took only part of a write, the page used to break off or show the chunk sizes as text. A new row shows the free memory and the largest free block.
+- **Battery icon in the colour of the title text:** on a display that runs on its battery, the icon at the top right is drawn in the colour of the window title (or heading) instead of the body text or the window controls, so it reads like part of the title bar in every theme.
+- **Faster retry when the server does not answer:** over plain http a display waits 3 s instead of 5 s for the answer to a pull before it retries (the log shows `read Timeout, TCP ... works, no HTTP answer` on a weak connection). https is unchanged.
+
+### Development
+
+- **Checks run once per change:** the checks run for pull requests and for pushes to `main` and `release/**` only, so a push to a branch with an open pull request no longer starts them twice, and a new push to a pull request cancels its running check.
+
 ## 0.4.2
 
 Fixes for signing in to the administration after hours and for two themes whose small colour accents got lost on the

diff --git a/README.md b/README.md
@@ -50,7 +50,7 @@ server; a display only receives its image.
 - **Boards.** Besides the VibeTV M1 (ESP8266), the firmware builds for ESP32, ESP32-S3 and ESP32-C3 boards with a display (tested on hardware: Waveshare ESP32-S3-Touch-LCD-1.47, ESP32-S3-Touch-LCD-1.54 and ESP32-C6-Touch-LCD-1.69; the others are prepared); each device has a board that decides which firmware it gets.
 - **Touch displays.** On the Waveshare touch boards a swipe left or right changes the theme (or the photo), up and down the brightness, a double tap starts or stops the slideshow, a circle drawn with one finger turns the picture. Displays mounted upside down, square ones also turned by 90°, are set with *Orientation* on the device card.
 - **Little data per update.** The server renders every picture, but a display with current firmware receives only the parts that changed (a few hundred bytes instead of 112 KB on a 240 × 240 panel), and it pulls when new readings are due instead of every 30 seconds: about 99 % less data than whole pictures.
-- **Troubleshooting.** Read a display's log over USB (any board) or over the network, and create an encrypted support file for a problem report.
+- **Troubleshooting.** Read a display's log over USB (any board) or over the network, follow what a display measures (memory, Wi-Fi signal, picture time, battery) as curves and export it as CSV, and create an encrypted support file for a problem report.
 - **Web displays.** A browser, tablet or another program shows the image without hardware: a full-screen page that reloads itself, sharp in the size of the window (also as an iPhone home screen app), or a plain PNG link, protected by a secret in the link.
 - **Firmware from the server.** The Docker image carries the matching display firmware for every board: download it, install it from Chrome or Edge over USB and pair the display over the same cable in one go, or update paired displays over Wi-Fi with firmware signed by the server.
 - **Responsive administration.** Five navigation areas, shared light/dark appearance for administration and device web pages, forms that open on demand, a design editor that saves every change right away, and a footer with build version, README and generated license information.
@@ -185,7 +185,7 @@ cd vibedock-client
 ./scripts/flash.sh waveshare-s3-touch-lcd-147   # a given board; --list shows them, build.sh all builds every board
 ```
 
-The firmware provides QR-based Wi-Fi setup, network scanning, pairing, internal/external server fallback, stale-image protection and a local status page at `http://<device-ip>/`. That page shows state and an image preview and offers persistent gamma/RGB calibration. It is visible on the local network. Power-cycle gestures open Wi-Fi setup or perform a factory reset; see the client README for the exact sequence.
+The firmware provides QR-based Wi-Fi setup, network scanning, pairing, internal/external server fallback, stale-image protection and a local status page at `http://<device-ip>/`. That page shows state, memory and a picture preview (loaded from the server, not relayed by the display) and offers persistent gamma/RGB calibration. It is visible on the local network. Power-cycle gestures open Wi-Fi setup or perform a factory reset; see the client README for the exact sequence.
 
 `flash.sh` and the browser flasher write only firmware; saved Wi-Fi and pairing remain on the device. Builds contain no Wi-Fi credentials, device keys or provider tokens. Once installed and paired, displays update over Wi-Fi from the administration: they install only firmware signed with the key of the server they are paired with and keep the running firmware if anything fails.
 

diff --git a/docs/design/device-logs.md b/docs/design/device-logs.md
@@ -77,3 +77,22 @@ Needs firmware newer than 0.1.1; displays with older firmware keep the USB way. 
   phase, but a panic's backtrace is only printed on the serial port. A core dump would need its own flash partition:
   a separate change of the partition table, not part of this step. Decoding needs the ELF of the exact build
   (`ELF_OUT` in `scripts/images.sh`).
+
+## Step 5 – measured values over time (implemented)
+
+- With every pull, firmware 0.5.0 and newer sends `X-VibeDock-Metrics` (`CLIENT-PROTOCOL.md` 3i): memory (free, lowest
+  since the last request, largest block, after a TLS handshake and its stack), the time of the last picture, Wi-Fi
+  signal and drops, battery voltage, brightness and the seconds the display was active and dimmed. The version comes
+  first and the order never changes; an empty field was not measured; units are fixed (memory in 100 bytes, time in
+  100 ms, voltage in 10 mV, all hex).
+- The server (`DeviceMetrics`) keeps one sample per display every 5 minutes and with every new start, for 30 days, in
+  `data/device-logs/<identifier>/metrics.jsonl`, one JSON line each. A sample carries the lowest free memory of all pulls
+  since the sample before, so a dip between two samples is not lost. Unreadable lines and samples older than 30 days are
+  dropped when the file is rewritten.
+- *Devices › Logs › Metrics* (`/admin/clients/{id}/metrics?hours=6|24|72|168|720`) draws memory, Wi-Fi and battery
+  curves as inline SVG (`MetricsChart`, a dashed line per restart) and a table of the newest samples.
+  `GET /admin/metrics.csv` (`MetricsCsv`) exports them: comma, dot decimals, the unit in the column name, UTC and local
+  time, firmware and reason of the start; filters `device`, `from`, `to`, `raw`. Text cells that could start a
+  spreadsheet formula (`=`, `+`, `-`, `@`, tab, carriage return, also after leading white space) get a leading `'`.
+- The key figures of a log (`DeviceLogTimeline.figures`) count the samples of the log's period as well, and the support
+  file carries them as `samples`. Older firmware sends nothing; nothing depends on it.

diff --git a/vibedock-server/CLIENT-PROTOCOL.md b/vibedock-server/CLIENT-PROTOCOL.md
@@ -264,7 +264,7 @@ handler, kept in RTC memory as well; they are decoded with the ELF of that firmw
 
 ## 3i. Metrics (device → server)
 
-Firmware newer than 0.4.2 sends with every image pull the values it measures, in one compact header (older firmware
+Firmware 0.5.0 and newer sends with every image pull the values it measures, in one compact header (older firmware
 sends none and keeps working):
 
 ```
@@ -535,7 +535,7 @@ image pull; invalid values return 400. A change within 5 s of the last one retur
 device writes it to flash); the next image response brings it. It shares the existing unauthenticated `/pull` callback and cannot change
 pairing, credentials, calibration or server addresses. Unreachable devices learn the value through their next
 authenticated image response. An open page polls local `/ui-state` every five seconds, skips hidden tabs,
-and requests `/image.bmp` only when the device has completed another image. No persistent connection or
+and reloads the picture from the server (3j) only when the device has completed another image. No persistent connection or
 additional image buffer is kept on the device. Missing or unknown
 values leave its saved preference unchanged (initial default: dark). The setting does not alter the rendered
 image, theme selection, colour calibration or backlight.

diff --git a/RELEASING.md b/RELEASING.md
@@ -31,7 +31,7 @@ git tag vX.Y.Z  ──push──▶  GitHub Actions: Release VibeDock (.github/w
                               │                  from docs/DOCKERHUB.md (with the secrets below)
                               ├─ firmware  → vibedock-<board>-<version>.bin for every board
                               └─ release   → GitHub release (draft, files uploaded, then published)
-push / pull request  ──────▶  GitHub Actions: Verify VibeDock (.github/workflows/verify.yml), check server-and-browser
+push to main / release/**, pull request  ──▶  GitHub Actions: Verify VibeDock (.github/workflows/verify.yml), check server-and-browser
 ```
 
 - The **version** comes from the Git tag (`vibedock-server/scripts/version.sh`); `v0.1.0` and `0.1.0` both work. The
